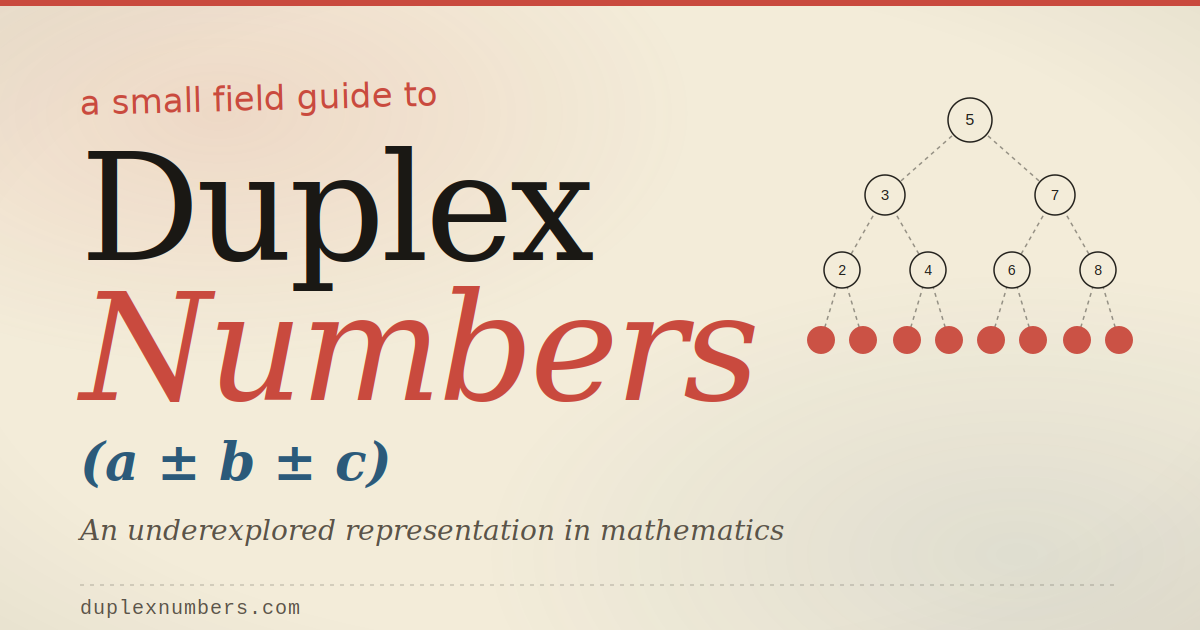
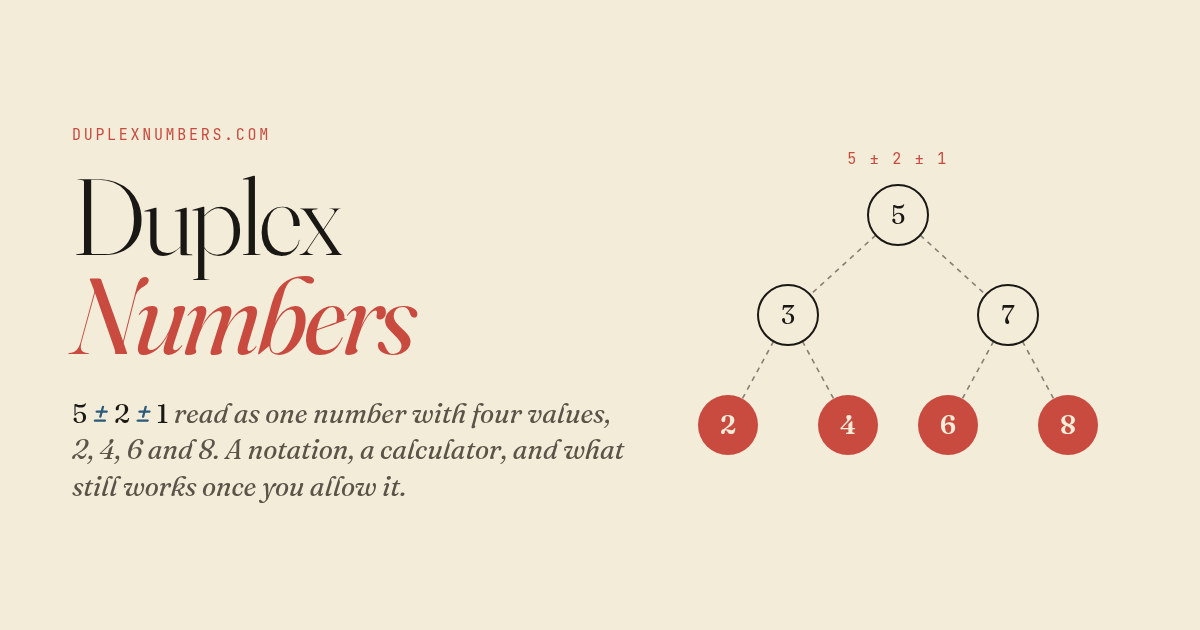
Shareable URL state, contents links, and a new social preview
The calculator and the parallel lines demo now write their state to
the URL hash and restore it on load, with a copy-link button in the
calculator. Sections have ids and the hero lists them. The social
preview image is regenerated in the current style.

diff --git a/index.html b/index.html
@@ -27,7 +27,7 @@
         <meta property="og:image:height" content="630" />
         <meta
             property="og:image:alt"
-            content="Duplex Numbers. A branching tree showing how 5 ± 2 ± 1 splits into its values."
+            content="Duplex Numbers. 5 ± 2 ± 1 is one number with four values: 2, 4, 6 and 8, shown as a branching tree."
         />
         <meta name="twitter:card" content="summary_large_image" />
         <meta
@@ -44,7 +44,7 @@
         />
         <meta
             name="twitter:image:alt"
-            content="Duplex Numbers. A branching tree showing how 5 ± 2 ± 1 splits into its values."
+            content="Duplex Numbers. 5 ± 2 ± 1 is one number with four values: 2, 4, 6 and 8, shown as a branching tree."
         />
         <link rel="preconnect" href="https://fonts.googleapis.com" />
         <link rel="preconnect" href="https://fonts.gstatic.com" crossorigin />
@@ -146,10 +146,38 @@
                 color: var(--ink-soft);
                 max-width: 42rem;
                 font-weight: 400;
-                margin-bottom: 3rem;
+                margin-bottom: 2rem;
                 font-style: italic;
             }
 
+
+            .contents {
+                display: flex;
+                flex-wrap: wrap;
+                gap: 0.4rem 1.4rem;
+                font-family: "JetBrains Mono", monospace;
+                font-size: 0.78rem;
+                letter-spacing: 0.08em;
+                text-transform: uppercase;
+            }
+
+            .contents a {
+                color: var(--ink-soft);
+                text-decoration: none;
+                border-bottom: 1px solid rgba(26, 24, 20, 0.25);
+                padding-bottom: 1px;
+            }
+
+            .contents a:hover,
+            .contents a:focus-visible {
+                color: var(--red);
+                border-bottom-color: var(--red);
+                outline: none;
+            }
+
+            section[id] {
+                scroll-margin-top: 1.5rem;
+            }
 
             /* ---------- SECTIONS ---------- */
             section {
@@ -1105,11 +1133,21 @@
                     represent, and has a calculator so you can try it for
                     yourself.
                 </p>
+                <nav class="contents" aria-label="contents">
+                    <a href="#notation">notation</a>
+                    <a href="#calculator">calculator</a>
+                    <a href="#superposition">superposition</a>
+                    <a href="#statistics">mean and variance</a>
+                    <a href="#eigenvalues">eigenvalues</a>
+                    <a href="#lines">parallel lines</a>
+                    <a href="#applications">applications</a>
+                    <a href="#related">related ideas</a>
+                </nav>
             </div>
         </section>
 
         <!-- ============ NOTATION ============ -->
-        <section>
+        <section id="notation">
             <div class="section-label">1 · The notation</div>
             <h2>One expression, several values</h2>
             <p class="lead">
@@ -1246,7 +1284,7 @@
         </section>
 
         <!-- ============ CALCULATOR ============ -->
-        <section>
+        <section id="calculator">
             <div class="section-label">2 · Calculator</div>
             <h2>Try it</h2>
             <p>
@@ -1301,6 +1339,18 @@
                     >
                         ↺ reset
                     </button>
+                    <button
+                        class="pm-btn"
+                        id="calcLinkBtn"
+                        onclick="copyCalcLink()"
+                        style="
+                            border-color: var(--ink-soft);
+                            color: var(--ink-soft);
+                        "
+                        title="copy a link that opens this expression"
+                    >
+                        ⧉ copy link to this expression
+                    </button>
                 </div>
 
                 <div id="compactForm" class="compact-form" hidden></div>
@@ -1339,7 +1389,7 @@
         </section>
 
         <!-- ============ SUPERPOSITION ============ -->
-        <section>
+        <section id="superposition">
             <div class="section-label">3 · Superposition</div>
             <h2>One number, equal to all of its values</h2>
             <p class="lead">
@@ -1428,7 +1478,7 @@
         </section>
 
         <!-- ============ STATISTICS ============ -->
-        <section>
+        <section id="statistics">
             <div class="section-label">4 · Mean and variance</div>
             <h2>Every duplex number is a distribution</h2>
             <p>
@@ -1507,7 +1557,7 @@
         </section>
 
         <!-- ============ EIGENVALUES ============ -->
-        <section>
+        <section id="eigenvalues">
             <div class="section-label">5 · Eigenvalues</div>
             <h2>Eigenvalues of a 2×2 matrix</h2>
             <p>
@@ -1610,7 +1660,7 @@
         </section>
 
         <!-- ============ PARALLEL LINES ============ -->
-        <section>
+        <section id="lines">
             <div class="section-label">6 · Parallel lines</div>
             <h2>Parallel lines from a contradiction</h2>
             <p>
@@ -1766,7 +1816,7 @@
         </section>
 
         <!-- ============ APPLICATIONS ============ -->
-        <section>
+        <section id="applications">
             <div class="section-label">7 · Applications</div>
             <h2>Quantum calculations</h2>
             <p>
@@ -1791,7 +1841,7 @@
         </section>
 
         <!-- ============ RELATED ============ -->
-        <section>
+        <section id="related">
             <div class="section-label">8 · Related ideas</div>
             <h2>How this relates to existing maths</h2>
             <p>
@@ -1924,6 +1974,110 @@
             // Expression is: [{ op: null, term }, { op: '+' | '×', term }, ...]
 
             let expression = [{ op: null, term: { coeffs: [5, 2, 1] } }];
+
+            // ============ URL STATE ============
+            // #e=5,2,1|x3|x3,1|d2   first part: coefficients of the ± chain;
+            //                      then x (×), d (⋇) or p (+) followed by coefficients.
+            // #l=m,k,b,d,s          parallel lines sliders; s = 1 for one shared sign.
+            const OP_CODE = { "×": "x", "⋇": "d", "+": "p" };
+            const CODE_OP = { x: "×", d: "⋇", p: "+" };
+
+            function encodeExpression() {
+                return expression
+                    .map((part, i) => {
+                        const nums = part.term.coeffs.map((c) => +c).join(",");
+                        return i === 0 ? nums : OP_CODE[part.op] + nums;
+                    })
+                    .join("|");
+            }
+
+            function decodeExpression(text) {
+                try {
+                    const parts = text.split("|");
+                    const nums = (s) =>
+                        s.split(",").map((v) => {
+                            const n = parseFloat(v);
+                            if (!Number.isFinite(n)) throw new Error("bad number");
+                            return n;
+                        });
+                    const first = nums(parts[0]);
+                    if (first.length === 0 || first.length > 8) return null;
+                    const out = [{ op: null, term: { coeffs: first } }];
+                    for (const p of parts.slice(1)) {
+                        const op = CODE_OP[p[0]];
+                        if (!op) return null;
+                        const co = nums(p.slice(1));
+                        if (co.length === 0 || co.length > 2) return null;
+                        out.push({ op, term: { coeffs: co }, isScalar: co.length === 1 });
+                        if (out.length > 6) return null;
+                    }
+                    return out;
+                } catch (e) {
+                    return null;
+                }
+            }
+
+            function readUrlState() {
+                const params = new URLSearchParams(location.hash.slice(1));
+                const e = params.get("e");
+                if (e) {
+                    const decoded = decodeExpression(e);
+                    if (decoded) expression = decoded;
+                }
+                const l = params.get("l");
+                if (l) {
+                    const v = l.split(",").map(parseFloat);
+                    const set = (id, x) => {
+                        const el = document.getElementById(id);
+                        if (el && Number.isFinite(x)) el.value = x;
+                    };
+                    set("slopeSlider", v[0]);
+                    set("slopeSpreadSlider", v[1]);
+                    set("centerSlider", v[2]);
+                    set("spread1Slider", v[3]);
+                    const shared = document.querySelector(
+                        'input[name="signMode"][value="shared"]',
+                    );
+                    if (shared && v[4] === 1) shared.checked = true;
+                }
+            }
+
+            let urlStateReady = false;
+            function writeUrlState() {
+                if (!urlStateReady) return;
+                const params = new URLSearchParams();
+                const e = encodeExpression();
+                if (e !== "5,2,1") params.set("e", e);
+                const val = (id) => +document.getElementById(id).value;
+                const shared =
+                    document.querySelector('input[name="signMode"]:checked')
+                        .value === "shared";
+                const l = [
+                    val("slopeSlider"),
+                    val("slopeSpreadSlider"),
+                    val("centerSlider"),
+                    val("spread1Slider"),
+                    shared ? 1 : 0,
+                ].join(",");
+                if (l !== "0.8,0,2,1,0") params.set("l", l);
+                const hash = params.toString().replace(/%2C/g, ",").replace(/%7C/g, "|");
+                const url =
+                    location.pathname + location.search + (hash ? "#" + hash : "");
+                history.replaceState(null, "", url);
+            }
+
+            async function copyCalcLink() {
+                writeUrlState();
+                const btn = document.getElementById("calcLinkBtn");
+                const original = btn.textContent;
+                try {
+                    await navigator.clipboard.writeText(location.href);
+                    btn.textContent = "copied";
+                } catch (e) {
+                    btn.textContent = "copy failed";
+                }
+                setTimeout(() => (btn.textContent = original), 1500);
+            }
 
             function expandTerm(term) {
                 // Given [a, b, c, ...], return all 2^(n-1) values
@@ -2580,6 +2734,7 @@
                 renderValues(values);
                 renderTree();
                 renderCompactForm();
+                writeUrlState();
             }
 
             // ============ EIGENVALUE DEMO ============
@@ -2748,6 +2903,8 @@
                 });
                 ctx.globalAlpha = 1;
 
+                writeUrlState();
+
                 // label intercepts once each
                 const labelled = new Set();
                 ctx.fillStyle = "#1a1814";
@@ -2776,10 +2933,12 @@
 
             // ============ INIT ============
 
+            readUrlState();
             renderExpression();
             update();
             updateEigen();
             drawLines();
+            urlStateReady = true;
 
             // Deferred re-fit: layout isn't always ready on first render
             requestAnimationFrame(() => {
